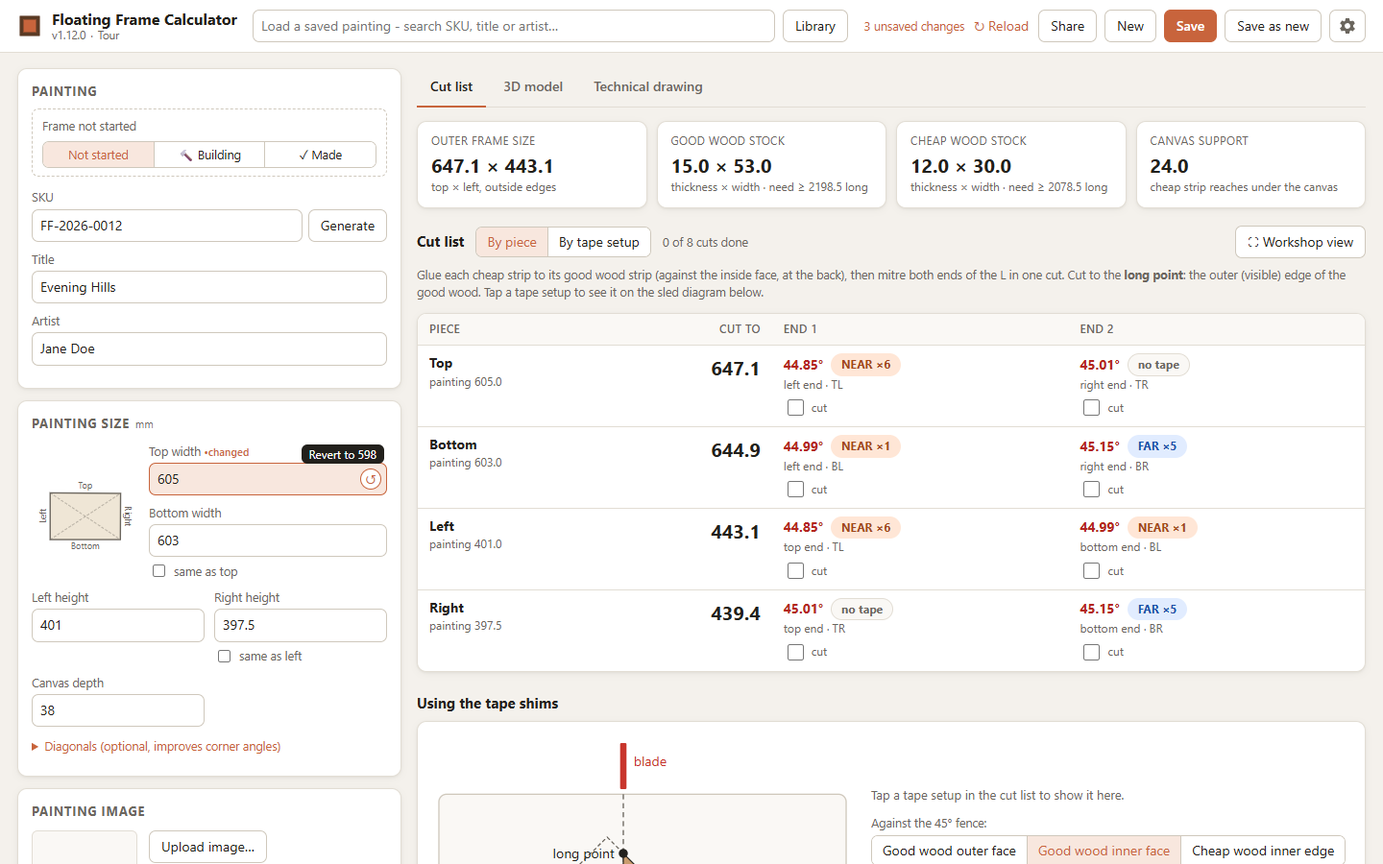
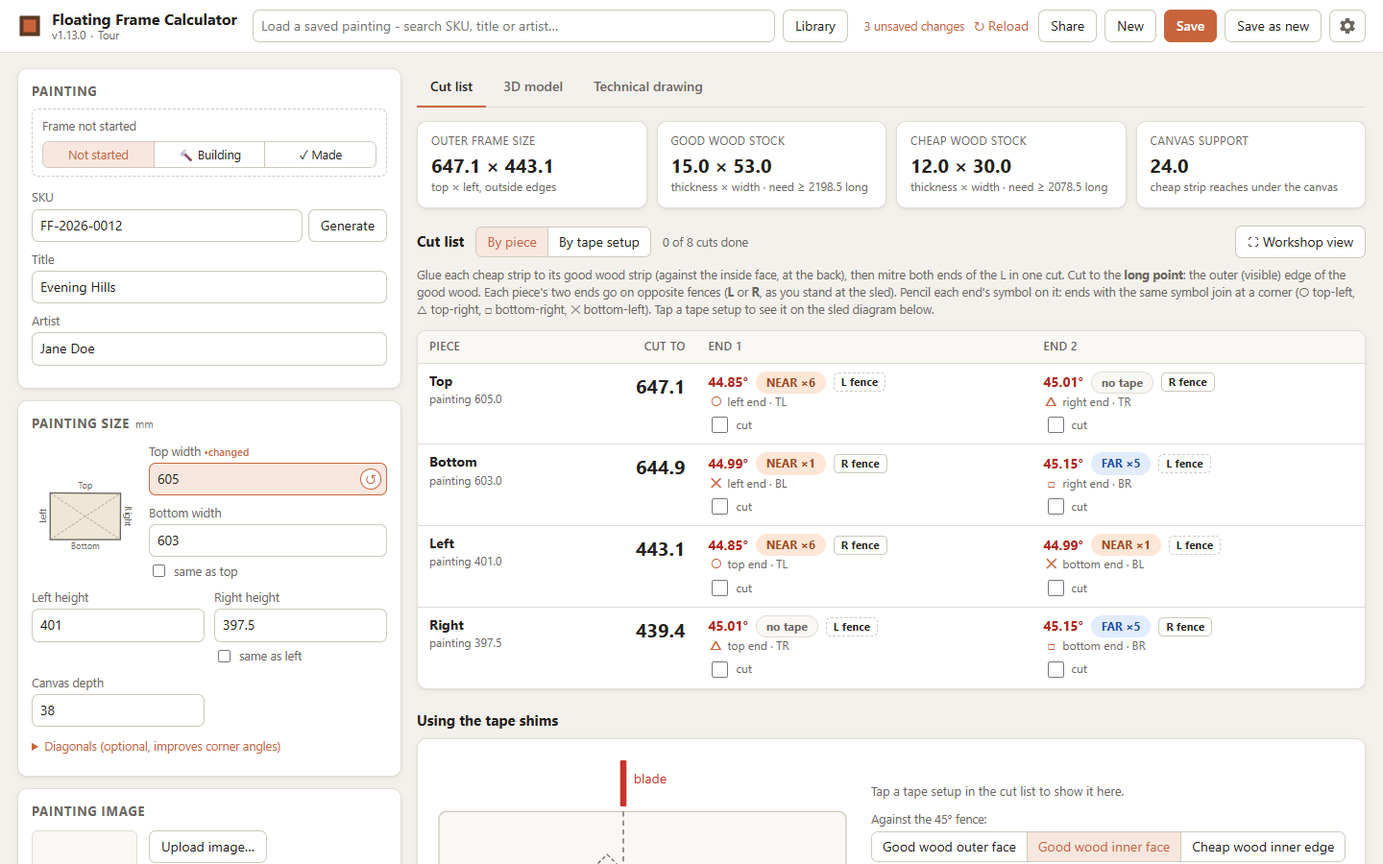
v1.14.0: Cut each end on its own fence of the V jig; corner symbols
- Each piece end gets a fence (left/right of the V-shaped 45 degree jig): a
  piece's two ends and the two mating ends at each corner are on opposite
  fences, so jig angle errors cancel. Turning the L upside down (good wood
  inner face) swaps every end's fence.
- Selection is per end; the sled diagram can be mirrored for the left fence
  and is headed with the piece and end. The caption names the mate's fence.
- By tape setup groups by fence + tape; merged Top & Bottom / Left & Right
  rows also require matching fences; the tick plan signature includes fences.
- Corner symbols (○ △ □ ✕) in the cut list, tape groups, workshop view, sled
  diagram heading and the technical drawing (CORNER_SYMBOL in geometry.js).
- README screenshots retaken.

diff --git a/static/js/app.js b/static/js/app.js
@@ -1,4 +1,4 @@
-import { computeFrame, solveQuad, FENCE_FACES, onInnerSide } from './geometry.js';
+import { computeFrame, solveQuad, FENCE_FACES, onInnerSide, CORNER_SYMBOL } from './geometry.js';
 import { buildDrawing } from './drawing.js';
 import { SPECIES } from './textures.js';
 import { VERSION, CHANGELOG } from './version.js';
@@ -74,7 +74,7 @@ let frame = null;
 let viewer = null;
 let activeTab = 'cut';
 let drawingDirty = true, modelDirty = true;
-let selectedCorner = null; // corner index shown in the tape guide, or null for the general view
+let selectedEnd = null; // the piece end (e.g. 'top:TL') shown on the sled diagram, or null for the general view
 // Opened from a share link: the painting is read only, the frame settings can be tried out but aren't saved.
 const SHARE_TOKEN = new URLSearchParams(location.search).get('share');
 const viewOnly = !!SHARE_TOKEN;
@@ -215,9 +215,9 @@ const tapeKey = (t) => (t.invalid ? 'invalid' : t.layers === 0 ? 'none' : `${t.l
 const tapeText = (t) => (t.invalid ? 'check setup' : t.layers === 0 ? 'no tape' : `${t.location === 'far' ? 'FAR' : 'NEAR'} ×${t.layers}`);
 const tapeClass = (t) => (t.invalid || t.layers === 0 ? 'none' : t.location);
 
-// The tape setup as a chip; tapping it shows that setup on the sled diagram.
-function tapeChip(t, ci, big = false) {
-  return `<button type="button" class="tape-chip ${tapeClass(t)}${big ? ' big' : ''}${ci === selectedCorner ? ' selected' : ''}" data-corner="${ci}" title="Show this setup on the sled diagram">${tapeText(t)}</button>`;
+// The tape setup as a chip; tapping it shows that end's setup on the sled diagram.
+function tapeChip(t, e, big = false) {
+  return `<button type="button" class="tape-chip ${tapeClass(t)}${big ? ' big' : ''}${e.cut === selectedEnd ? ' selected' : ''}" data-end="${e.cut}" title="Show this setup on the sled diagram">${tapeText(t)}</button>`;
 }
 
 function tapeWords(t) {
@@ -226,21 +226,41 @@ function tapeWords(t) {
   return `${t.layers} layer${t.layers === 1 ? '' : 's'} (${f2(t.shim)} mm) at the ${t.location === 'far' ? 'FAR point' : 'NEAR point, by the blade'}`;
 }
 
+// The sled has two 45\u00B0 fences in a V, one each side of the blade. A piece's two ends are
+// mirror images, so they're cut on opposite fences, and the two mating cuts at every corner
+// always end up on opposite fences, which cancels out any error in the jig's angles.
+// These ends go on the right-hand fence (as you stand at the sled) with the L the right way
+// up; turning the L upside down (good wood inner face against the fence) swaps them over.
+const RIGHT_FENCE_UPRIGHT = new Set(['top:TL', 'bottom:BR', 'left:BL', 'right:TR']);
+function fenceFor(cut, s = settingsInput()) {
+  const upsideDown = s.fenceEdge === 'goodInner';
+  return RIGHT_FENCE_UPRIGHT.has(cut) !== upsideDown ? 'right' : 'left';
+}
+const fenceName = (f) => (f === 'right' ? 'R fence' : 'L fence');
+const fenceBadge = (f) => `<span class="fence-badge ${f}" title="Cut on the ${f}-hand fence">${fenceName(f)}</span>`;
+
+// The corner's symbol (see CORNER_SYMBOL), to pencil on both mating ends.
+const symbolBadge = (key) => `<span class="corner-symbol" title="Mark this end with ${CORNER_SYMBOL[key]} - it joins the other ${CORNER_SYMBOL[key]} end at the ${key} corner">${CORNER_SYMBOL[key]}</span>`;
+
 // A piece's two ends in reading order: left then right for Top/Bottom, top then bottom
-// for Left/Right. Each is { strip, ci (corner index), key (e.g. 'TL'), label, cut (tick key) }.
+// for Left/Right. Each is { strip, ci (corner index), key (e.g. 'TL'), label, cut (tick key), fence }.
 function pieceEnds(frame, st) {
   const horizontal = st.key === 'top' || st.key === 'bottom';
   const ends = st.corners.map((ci) => ({ strip: st, ci, key: frame.corners[ci].key }));
   ends.sort((a, b) => (horizontal ? (a.key[1] === 'L' ? -1 : 1) : (a.key[0] === 'T' ? -1 : 1)));
   const labels = horizontal ? ['left end', 'right end'] : ['top end', 'bottom end'];
-  return ends.map((e, i) => ({ ...e, label: labels[i], cut: `${st.key}:${e.key}` }));
+  return ends.map((e, i) => {
+    const cut = `${st.key}:${e.key}`;
+    return { ...e, label: labels[i], cut, fence: fenceFor(cut) };
+  });
 }
+const findEnd = (frame, cut) => frame.strips.flatMap((st) => pieceEnds(frame, st)).find((e) => e.cut === cut) || null;
 
 // Rows in Top, Bottom, Left, Right order. Opposite pieces that come out the same (length,
 // and the angle and tape at each end) share a row, with their matching ends side by side.
 function pieceRows(frame) {
   const byKey = Object.fromEntries(frame.strips.map((st) => [st.key, st]));
-  const sig = (e) => `${f2(frame.corners[e.ci].mitre)}|${tapeKey(frame.corners[e.ci].tape)}`;
+  const sig = (e) => `${f2(frame.corners[e.ci].mitre)}|${tapeKey(frame.corners[e.ci].tape)}|${e.fence}`;
   const rows = [];
   for (const [a, b, name] of [['top', 'bottom', 'Top & Bottom'], ['left', 'right', 'Left & Right']]) {
     const A = byKey[a], B = byKey[b];
@@ -257,7 +277,7 @@ function pieceRows(frame) {
 // ---- ticking cuts off
 // Identifies the cut plan: if lengths or tape setups change, earlier ticks no longer apply.
 function cutPlanSig(frame) {
-  return frame.strips.map((st) => `${st.key}:${f1(st.good.longPoint)}:${st.corners.map((ci) => frame.corners[ci].key + tapeKey(frame.corners[ci].tape)).join(',')}`).join('|');
+  return frame.strips.map((st) => `${st.key}:${f1(st.good.longPoint)}:${pieceEnds(frame, st).map((e) => e.key + tapeKey(frame.corners[e.ci].tape) + e.fence[0]).join(',')}`).join('|');
 }
 const cutsDone = () => (cur.cuts && frame && frame.ok && cur.cuts.sig === cutPlanSig(frame) ? cur.cuts.done || {} : {});
 const staleCuts = () => !!(cur.cuts && frame && frame.ok && cur.cuts.sig !== cutPlanSig(frame) && Object.keys(cur.cuts.done || {}).length);
@@ -327,9 +347,11 @@ function renderCutList() {
   // ---- by piece
   const endCell = (entries) => {
     const c = frame.corners[entries[0].ci];
-    const where = entries.length > 1 ? entries.map((e) => e.key).join(' / ') : `${entries[0].label} · ${entries[0].key}`;
+    const where = entries.length > 1
+      ? entries.map((e) => `${symbolBadge(e.key)} ${e.key}`).join(' / ')
+      : `${symbolBadge(entries[0].key)} ${entries[0].label} \u00B7 ${entries[0].key}`;
     const ticks = viewOnly ? '' : `<div class="ticks">${entries.map((e) => tickBox(e, entries.length > 1 ? e.strip.name : 'cut')).join('')}</div>`;
-    return `<td class="end-cell"><div class="end-main"><span class="angle">${f2(c.mitre)}°</span> ${tapeChip(c.tape, entries[0].ci)}</div><div class="sub">${where}</div>${ticks}</td>`;
+    return `<td class="end-cell"><div class="end-main"><span class="angle">${f2(c.mitre)}\u00B0</span> ${tapeChip(c.tape, entries[0])} ${fenceBadge(entries[0].fence)}</div><div class="sub">${where}</div>${ticks}</td>`;
   };
   const pieceTable = pieceRows(frame).map((r) => {
     const cuts = r.ends.flat().map((e) => e.cut);
@@ -349,19 +371,20 @@ function renderCutList() {
   for (const key of ['top', 'bottom', 'left', 'right']) {
     const st = frame.strips.find((x) => x.key === key);
     for (const e of pieceEnds(frame, st)) {
-      const t = frame.corners[e.ci].tape, k = tapeKey(t);
-      if (!groups.has(k)) groups.set(k, { t, items: [] });
+      // Each fence is taped separately, so a setup is per fence.
+      const t = frame.corners[e.ci].tape, k = `${e.fence}|${tapeKey(t)}`;
+      if (!groups.has(k)) groups.set(k, { t, fence: e.fence, items: [] });
       groups.get(k).items.push(e);
     }
   }
-  const order = (g) => (g.t.invalid ? 9e3 : g.t.layers === 0 ? 0 : (g.t.location === 'far' ? 1000 : 2000) + g.t.layers);
+  const order = (g) => (g.fence === 'left' ? 0 : 10000) + (g.t.invalid ? 9e3 : g.t.layers === 0 ? 0 : (g.t.location === 'far' ? 1000 : 2000) + g.t.layers);
   const tapeGroups = [...groups.values()].sort((a, b) => order(a) - order(b)).map((g) => {
     const left = g.items.filter((e) => !done[e.cut]).length;
     return `<div class="tape-group${left ? '' : ' group-done'}">
-      <div class="tape-group-head">${tapeChip(g.t, g.items[0].ci, true)} <span>${tapeWords(g.t)}</span> <span class="sub">${left ? `${left} of ${g.items.length} cut${g.items.length === 1 ? '' : 's'} left` : 'all done'}</span></div>
+      <div class="tape-group-head">${fenceBadge(g.fence)} ${tapeChip(g.t, g.items[0], true)} <span>${tapeWords(g.t)}</span> <span class="sub">${left ? `${left} of ${g.items.length} cut${g.items.length === 1 ? '' : 's'} left` : 'all done'}</span></div>
       <ul class="tape-cuts">${g.items.map((e) => `<li class="${done[e.cut] ? 'cut-done' : ''}">
         ${viewOnly ? '' : tickBox(e)}
-        <span><b>${e.strip.name}</b> ${e.label} <span class="sub">${e.key}</span></span>
+        <span>${symbolBadge(e.key)} <b>${e.strip.name}</b> ${e.label} <span class="sub">${e.key}</span></span>
         <span class="angle">${f2(frame.corners[e.ci].mitre)}°</span>
         <span class="cut-hint">${lengthHint(frame, e)}</span>
       </li>`).join('')}</ul>
@@ -370,11 +393,11 @@ function renderCutList() {
 
   const dg = frame.diagonals;
   const diagDiff = (d) => Math.abs(d.a - d.b);
-  const cornerRows = frame.corners.map((c, i) => `<tr class="clickable${i === selectedCorner ? ' selected' : ''}" data-corner="${i}" title="Show this corner in the tape diagram">
-      <td><b>${c.key}</b> <span class="sub">${c.name}</span></td>
+  const cornerRows = frame.corners.map((c) => `<tr>
+      <td>${symbolBadge(c.key)} <b>${c.key}</b> <span class="sub">${c.name}</span></td>
       <td class="num">${f2(c.angle)}°</td>
       <td class="num angle">${f2(c.mitre)}°</td>
-      <td>${tapeChip(c.tape, i)}</td>
+      <td><span class="tape-chip ${tapeClass(c.tape)}">${tapeText(c.tape)}</span></td>
       <td class="num">${f2(c.tape.result)}°</td>
       <td class="num">${Math.abs(c.tape.error) < 0.005 ? '0.00' : (c.tape.error > 0 ? '+' : '') + f2(c.tape.error)}°</td>
       <td class="num">${c.jointOpening < 0.05 ? '<span class="sub">&lt; 0.05</span>' : f2(c.jointOpening)} <span class="sub">${c.jointOpening < 0.05 ? '' : c.openingAt === 'inner' ? 'inside' : 'outside'}</span></td>
@@ -406,30 +429,31 @@ function renderCutList() {
       <button type="button" class="workshop-btn" data-workshop>&#9974; Workshop view</button>
     </div>
     ${staleCuts() ? '<div class="alert warn">The measurements or cutting setup changed since you ticked cuts, so those ticks have been cleared.</div>' : ''}
-    <p class="note" style="margin-top:0">Glue each cheap strip to its good wood strip ${frame.inside ? '(against the inside face, at the back)' : '(underneath, outer edges flush)'}, then mitre both ends of the L in one cut. Cut to the <b>long point</b>: the outer (visible) edge of the good wood. Tap a tape setup to see it on the sled diagram below.</p>
+    <p class="note" style="margin-top:0">Glue each cheap strip to its good wood strip ${frame.inside ? '(against the inside face, at the back)' : '(underneath, outer edges flush)'}, then mitre both ends of the L in one cut. Cut to the <b>long point</b>: the outer (visible) edge of the good wood. Each piece's two ends go on opposite fences (<b>L</b> or <b>R</b>, as you stand at the sled). Pencil each end's symbol on it: ends with the same symbol join at a corner (\u25CB top-left, \u25B3 top-right, \u25A1 bottom-right, \u2715 bottom-left). Tap a tape setup to see it on the sled diagram below.</p>
     ${view === 'piece' ? `
     <div class="table-wrap"><table class="table cut-table">
       <thead><tr><th>Piece</th><th class="num">Cut to</th><th>End 1</th><th>End 2</th></tr></thead>
       <tbody>${pieceTable}</tbody>
     </table></div>` : `
-    <p class="note">Set the tape once for each group and make all its cuts. A piece's second cut sets its length.</p>
+    <p class="note">Set the tape on that fence once for each group and make all its cuts. A piece's second cut sets its length.</p>
     <div class="tape-groups">${tapeGroups}</div>`}
 
     <h3>Using the tape shims</h3>
     <div class="guide" id="tapeGuide">
-      ${tapeGuideSvg(s, selectedCorner === null ? null : frame.corners[selectedCorner])}
+      ${selectedGuideSvg(frame, s)}
       <div>
         ${cornerCaption(frame)}
         <div class="guide-label">Against the 45° fence:</div>
         <div class="seg guide-toggle" role="group" aria-label="Face against the fence">
           ${Object.entries(FENCE_FACES).map(([k, f]) => `<button type="button" data-fence-edge="${k}" class="${k === s.fenceEdge ? 'active' : ''}">${f.short}</button>`).join('')}
         </div>
-        <div>The strip goes on the <b>${face.side} side</b> of the fence so the long point ends up on the outside of the frame${
+        <div>Each end goes on the <b>${face.side} side</b> of its fence so the long point ends up on the outside of the frame${
           s.fenceEdge === 'goodInner' ? '. Lay the L <b>upside down</b>: the good wood\'s front edge on the sled, the cheap wood on top reaching over the fence.' : '.'}</div>
         <ul>
           <li><span class="tag far">FAR end</span> tape on the fence ~${f1(s.tapeDistance)} mm from the blade makes the mitre <b>${farEffect}</b> than 45°.</li>
           <li><span class="tag near">NEAR blade</span> tape on the fence right next to the blade makes it <b>${nearEffect}</b> than 45°.</li>
           <li>Stack the layers at one point only - the strip should still touch the bare fence (or its tape) at both points.</li>
+          <li>The two mating ends at each corner are cut on opposite fences, so if the jig's fences aren't exactly 45\u00B0 the errors cancel out and the joint still closes.</li>
         </ul>
       </div>
     </div>
@@ -457,15 +481,24 @@ function renderCutList() {
     </details>`;
 }
 
-// Which setup the tape diagram is showing, and which piece ends it cuts.
+// The sled diagram for the selected end (on its fence), or the general view.
+function selectedGuideSvg(frame, s) {
+  const e = selectedEnd ? findEnd(frame, selectedEnd) : null;
+  return e ? endGuideSvg(frame, s, e) : tapeGuideSvg(s);
+}
+function endGuideSvg(frame, s, e) {
+  const c = frame.corners[e.ci];
+  return tapeGuideSvg(s, c, { mirror: e.fence === 'left', heading: `${CORNER_SYMBOL[e.key]} ${e.strip.name} \u00B7 ${e.label}`, fenceSide: e.fence });
+}
+
+// Which end the tape diagram is showing, and its mate on the other fence.
 function cornerCaption(frame) {
-  if (selectedCorner === null) {
-    return '<p class="guide-pick">Tap a tape setup in the cut list to show it here.</p>';
-  }
-  const c = frame.corners[selectedCorner], t = c.tape;
-  const ends = frame.strips.flatMap((st) => pieceEnds(frame, st)).filter((e) => e.ci === selectedCorner).map((e) => `the ${e.strip.name.toLowerCase()} piece's ${e.label}`);
-  return `<div class="guide-pick active"><b>${c.key} (${c.name})</b>: ${tapeWords(t)}, to cut <span class="angle">${f2(t.result)}°</span>
-    for the ${f2(c.mitre)}° mitre. Used for ${ends.join(' and ')}.
+  const e = selectedEnd ? findEnd(frame, selectedEnd) : null;
+  if (!e) return '<p class="guide-pick">Tap a tape setup in the cut list to show it here.</p>';
+  const c = frame.corners[e.ci], t = c.tape;
+  const mate = frame.strips.flatMap((st) => pieceEnds(frame, st)).find((x) => x.ci === e.ci && x.cut !== e.cut);
+  return `<div class="guide-pick active">${symbolBadge(e.key)} <b>${e.strip.name} piece, ${e.label}</b> on the <b>${e.fence}-hand fence</b>: ${tapeWords(t)}, to cut <span class="angle">${f2(t.result)}\u00B0</span>
+    for the ${f2(c.mitre)}\u00B0 mitre.${mate ? ` Its mate, the ${mate.strip.name.toLowerCase()} piece's ${mate.label}, goes on the ${mate.fence}-hand fence with the same tape.` : ''}
     <button type="button" class="link" data-corner-clear>Show both points</button></div>`;
 }
 
@@ -496,10 +529,10 @@ function renderWorkshop() {
     <div class="ws-ends">${ends.map((e) => {
       const c = frame.corners[e.ci];
       return `<div class="ws-end${done[e.cut] ? ' cut-done' : ''}">
-        <div class="ws-end-head"><b>${e.label[0].toUpperCase() + e.label.slice(1)}</b> <span class="sub">${e.key}</span></div>
-        <div class="ws-end-main"><span class="ws-angle">${f2(c.mitre)}°</span> <span class="tape-chip big ${tapeClass(c.tape)}">${tapeText(c.tape)}</span></div>
+        <div class="ws-end-head"><span class="corner-symbol big">${CORNER_SYMBOL[e.key]}</span> <b>${e.label[0].toUpperCase() + e.label.slice(1)}</b> <span class="sub">${e.key}</span></div>
+        <div class="ws-end-main"><span class="ws-angle">${f2(c.mitre)}\u00B0</span> <span class="tape-chip big ${tapeClass(c.tape)}">${tapeText(c.tape)}</span> <span class="fence-badge big ${e.fence}">${e.fence === 'right' ? 'Right' : 'Left'} fence</span></div>
         <div class="ws-hint">${lengthHint(frame, e, true)}</div>
-        <div class="ws-sled">${tapeGuideSvg(s, c)}</div>
+        <div class="ws-sled">${endGuideSvg(frame, s, e)}</div>
         ${cur.id && !viewOnly ? `<label class="ws-tick"><input type="checkbox" data-cut="${e.cut}"${done[e.cut] ? ' checked' : ''}> Cut</label>` : ''}
       </div>`;
     }).join('')}</div>
@@ -539,15 +572,18 @@ function setupWorkshop() {
 // the kerf down to the right, and the L strip against one side of it. With a
 // corner, only that corner's tape point is lit and its stack of layers is drawn.
 let sledSeq = 0;
-function tapeGuideSvg(s, corner = null) {
+// mirror: draw the left-hand fence (the drawing flipped left to right).
+function tapeGuideSvg(s, corner = null, { mirror = false, heading = null, fenceSide = 'right' } = {}) {
   const uid = ++sledSeq; // unique ids: the diagram can appear more than once
   const c = Math.SQRT1_2;
   const K = 150, AY = 112; // kerf x, and where the fence's blade-side face meets the kerf
   // P(a, o): a along the fence away from the blade, o off the fence's blade-side
   // face (+ towards the blade, - towards the operator).
-  const P = (a, o) => [K + c * a + c * o, AY + c * a - c * o];
+  const MX = (x) => (mirror ? 330 - x : x);
+  const P = (a, o) => [MX(K + c * a + c * o), AY + c * a - c * o];
+  const flip = (anchor) => (!mirror ? anchor : anchor === 'end' ? 'start' : anchor === 'start' ? 'end' : anchor);
   const pts = (arr) => arr.map((q) => q.map((v) => v.toFixed(1)).join(',')).join(' ');
-  const rot = (q) => `rotate(45 ${q[0].toFixed(1)} ${q[1].toFixed(1)})`;
+  const rot = (q) => `rotate(${mirror ? -45 : 45} ${q[0].toFixed(1)} ${q[1].toFixed(1)})`;
   const FT = 12, GOOD = 14, CHEAP = 22, LEN = 190;
   const inside = s.cheapPosition !== 'under';
   const bladeSide = onInnerSide(s.fenceEdge);
@@ -580,7 +616,7 @@ function tapeGuideSvg(s, corner = null) {
   const near = P(-o0 + 14, face), far = P(175, face);
   const lblO = bladeSide ? Math.min(oMin, -FT) - 12 : Math.max(oMax, 0) + 12; // free side of the fence
   const nearL = P(-o0 + (bladeSide ? 44 : 30), lblO), farL = P(bladeSide ? 190 : 112, lblO);
-  const lblAnchor = bladeSide ? 'end' : 'start'; // keep labels clear of the fence
+  const lblAnchor = flip(bladeSide ? 'end' : 'start'); // keep labels clear of the fence
   const fence = [P(0, 0), P(235, 0), P(235, -FT), P(FT, -FT)];
   const fenceL = P(upsideDown ? 150 : 105, -FT / 2);
   // Selected corner: which point gets the tape, and how many layers.
@@ -605,9 +641,10 @@ function tapeGuideSvg(s, corner = null) {
         return `<line class="g-tape-line" x1="${x1.toFixed(1)}" y1="${y1.toFixed(1)}" x2="${x2.toFixed(1)}" y2="${y2.toFixed(1)}"/>`;
       }).join('');
   }
+  const tx = mirror ? 314 : 16, ta = mirror ? 'end' : 'start';
   const title = corner
-    ? `<text class="g-title" x="16" y="66">${corner.key} corner</text>
-       <text class="g-muted" x="16" y="80">mitre ${f2(corner.mitre)}° → cut ${f2(tape.result)}°</text>`
+    ? `<text class="g-title" x="${tx}" y="66" text-anchor="${ta}">${heading || `${corner.key} corner`}</text>
+       <text class="g-muted" x="${tx}" y="80" text-anchor="${ta}">${fenceSide === 'right' ? 'right-hand' : 'left-hand'} fence \u00B7 mitre ${f2(corner.mitre)}\u00B0 \u2192 cut ${f2(tape.result)}\u00B0</text>`
     : '';
   const bandLabel = (b) => {
     const q = P(b.over ? 60 : 75, (b.oa + b.ob) / 2);
@@ -617,7 +654,7 @@ function tapeGuideSvg(s, corner = null) {
     <defs><clipPath id="sledClip${uid}"><rect x="6" y="46" width="318" height="248" rx="6"/></clipPath>
       <marker id="gArrow${uid}" viewBox="0 0 10 10" refX="5" refY="5" markerWidth="7" markerHeight="7" orient="auto-start-reverse"><path d="M0,1 L10,5 L0,9 z" class="g-arrowhead"/></marker></defs>
     <rect class="g-sled" x="6" y="46" width="318" height="248" rx="6"/>
-    <line class="g-kerf" x1="${K}" y1="46" x2="${K}" y2="294"/>
+    <line class="g-kerf" x1="${MX(K)}" y1="46" x2="${MX(K)}" y2="294"/>
     <g clip-path="url(#sledClip${uid})">
       <polygon class="g-offcut" points="${pts(offcut)}"/>
       <polygon class="g-fence" points="${pts(fence)}"/>
@@ -625,18 +662,18 @@ function tapeGuideSvg(s, corner = null) {
     </g>
     ${bands.map(bandLabel).join('')}
     <text class="g-fence-t" x="${fenceL[0]}" y="${fenceL[1]}" text-anchor="middle" dominant-baseline="middle" transform="${rot(fenceL)}">45° fence</text>
-    <rect class="g-blade" x="${K - 2.5}" y="6" width="5" height="36" rx="1"/>
-    <text class="g-blade-t" x="${K + 8}" y="24">blade</text>
+    <rect class="g-blade" x="${MX(K) - 2.5}" y="6" width="5" height="36" rx="1"/>
+    <text class="g-blade-t" x="${MX(K + 8)}" y="24" text-anchor="${flip('start')}">blade</text>
     <circle class="g-tip" cx="${tip[0]}" cy="${tip[1]}" r="3.5"/>
-    <text class="g-ink" x="${K - 7}" y="${tip[1] + 4}" text-anchor="end">long point</text>
+    <text class="g-ink" x="${MX(K - 7)}" y="${tip[1] + 4}" text-anchor="${flip('end')}">long point</text>
     ${stack}
     <circle class="${lit('near') ? 'g-near' : 'g-off'}" cx="${near[0]}" cy="${near[1]}" r="5.5"/>
     ${pointLabel('near', nearL[0], nearL[1] + 4, 'NEAR')}
     <circle class="${lit('far') ? 'g-far' : 'g-off'}" cx="${far[0]}" cy="${far[1]}" r="5.5"/>
     ${pointLabel('far', farL[0], farL[1] + 4, `FAR · ${f1(s.tapeDistance)} mm`)}
     ${title}
-    <line class="g-arrow" x1="28" y1="270" x2="28" y2="215" marker-end="url(#gArrow${uid})"/>
-    <text class="g-muted" x="28" y="284" text-anchor="middle">feed</text>
+    <line class="g-arrow" x1="${MX(28)}" y1="270" x2="${MX(28)}" y2="215" marker-end="url(#gArrow${uid})"/>
+    <text class="g-muted" x="${MX(28)}" y="284" text-anchor="middle">feed</text>
   </svg>`;
 }
 
@@ -1724,10 +1761,10 @@ function bindEvents() {
     if (view) { saveUi({ cutView: view.dataset.cutView }); renderCutList(); return; }
     if (e.target.closest('[data-workshop]')) { openWorkshop(); return; }
     if (e.target.closest('[data-cuts-clear]')) { clearCuts(); return; }
-    const pick = e.target.closest('[data-corner]');
+    const pick = e.target.closest('[data-end]');
     if (pick || e.target.closest('[data-corner-clear]')) {
-      const i = pick ? Number(pick.dataset.corner) : null;
-      selectedCorner = i === selectedCorner ? null : i;
+      const end = pick ? pick.dataset.end : null;
+      selectedEnd = end === selectedEnd ? null : end;
       renderCutList();
       if (pick) $('#tapeGuide').scrollIntoView({ block: 'nearest', behavior: 'smooth' });
       return;

diff --git a/static/js/drawing.js b/static/js/drawing.js
@@ -1,5 +1,5 @@
 // Technical drawing (SVG) of the frame and its 8 strips.
-import { stripLocal, FENCE_FACES } from './geometry.js';
+import { stripLocal, FENCE_FACES, CORNER_SYMBOL } from './geometry.js';
 
 const f1 = (v) => v.toFixed(1);
 const f2 = (v) => v.toFixed(2);
@@ -185,7 +185,8 @@ export function buildDrawing(frame, meta, settings) {
       const dx = p[0] - cx, dy = p[1] - cy;
       const l = Math.hypot(dx, dy);
       const q = [p[0] + (dx / l) * 30, p[1] + (dy / l) * 30];
-      s.text(q[0], q[1], `${c.key} ${f2(c.angle)}°`, { size: 10.5, anchor: dx < 0 ? 'end' : 'start', baseline: 'middle', cls: 'angle' });
+      // The same symbol as in the cut list, to pencil on the two mating ends at this corner.
+      s.text(q[0], q[1], `${CORNER_SYMBOL[c.key]} ${c.key} ${f2(c.angle)}°`, { size: 10.5, anchor: dx < 0 ? 'end' : 'start', baseline: 'middle', cls: 'angle' });
     });
     // Section marker A-A across the left strip
     const mid = [(P.good.outer[0][0] + P.good.outer[3][0]) / 2, (P.good.outer[0][1] + P.good.outer[3][1]) / 2];
@@ -281,9 +282,9 @@ export function buildDrawing(frame, meta, settings) {
 
       const cL = corners[j], cR = corners[i];
       s.text(Math.min(outerL[0], innerL[0]) - 10, outerL[1] - 4, `${f2(cL.mitre)}°`, { size: 11, anchor: 'end', cls: 'angle' });
-      s.text(Math.min(outerL[0], innerL[0]) - 10, outerL[1] + 9, `${cL.key} end`, { size: 9, anchor: 'end', cls: 'muted' });
+      s.text(Math.min(outerL[0], innerL[0]) - 10, outerL[1] + 9, `${CORNER_SYMBOL[cL.key]} ${cL.key} end`, { size: 9, anchor: 'end', cls: 'muted' });
       s.text(rightmost + 56, outerR[1] - 4, `${f2(cR.mitre)}°`, { size: 11, cls: 'angle' });
-      s.text(rightmost + 56, outerR[1] + 9, `${cR.key} end`, { size: 9, cls: 'muted' });
+      s.text(rightmost + 56, outerR[1] + 9, `${CORNER_SYMBOL[cR.key]} ${cR.key} end`, { size: 9, cls: 'muted' });
 
       // Label column
       s.text(M, top - 2, `${st.name.toUpperCase()}`, { size: 13, weight: 'bold' });

diff --git a/static/css/style.css b/static/css/style.css
@@ -447,6 +447,11 @@ body.has-dock .toast { bottom: 76px; }
 .tape-cuts li .len { font-size: 15px; }
 .tape-cuts li.cut-done > span { color: var(--muted); text-decoration: line-through; }
 details.accuracy { margin-top: 18px; }
+.fence-badge { display: inline-block; font-size: 11px; font-weight: 700; letter-spacing: .02em; padding: 1px 7px; border-radius: 5px; border: 1px solid var(--line-strong); color: var(--text); background: var(--panel); white-space: nowrap; }
+.fence-badge.left { border-style: dashed; }
+.fence-badge.big { font-size: 18px; padding: 4px 12px; border-radius: 8px; border-width: 2px; }
+.corner-symbol { display: inline-block; min-width: 1.2em; text-align: center; font-weight: 700; color: var(--accent); font-size: 1.15em; line-height: 1; }
+.corner-symbol.big { font-size: 26px; vertical-align: -3px; }
 /* Phones: each piece as a small card - name and length, then its two ends side by side. */
 @media (max-width: 640px) {
   .cut-table thead { display: none; }

diff --git a/static/js/version.js b/static/js/version.js
@@ -7,6 +7,16 @@
 
 export const CHANGELOG = [
   {
+    version: '1.14.0',
+    date: '2026-09-30',
+    changes: [
+      'Each end now says which fence of the 45° jig it’s cut on: L fence or R fence, as you stand at the sled. A piece’s two ends always go on opposite fences, and so do the two mating cuts at each corner, so any error in the jig’s angles cancels out.',
+      'The sled diagram and the Workshop view draw each end on its own fence (the left-hand one mirrored).',
+      '“By tape setup” now groups cuts by fence as well, since you tape each fence separately.',
+      'Each corner has a symbol to pencil on both of its mating ends: ○ top-left, △ top-right, □ bottom-right, ✕ bottom-left. They’re shown in the cut list, the Workshop view and the technical drawing.',
+    ],
+  },
+  {
     version: '1.13.0',
     date: '2026-09-30',
     changes: [

diff --git a/static/js/geometry.js b/static/js/geometry.js
@@ -19,6 +19,9 @@ export const CORNERS = [
   { key: 'TL', name: 'Top-left' },
 ];
 
+// A simple shape per corner, easy to pencil on both mating ends so they're paired up at glue-up.
+export const CORNER_SYMBOL = { TL: '○', TR: '△', BR: '□', BL: '✕' };
+
 export const SIDES = [
   { key: 'bottom', name: 'Bottom' },
   { key: 'right', name: 'Right' },

diff --git a/README.md b/README.md
@@ -128,7 +128,7 @@ The address, path and DuckDNS token are remembered, so later updates only need `
 - **Inputs** (mm): top and bottom widths, left and right heights ("same as" ticked by default), canvas depth, and optionally the two diagonals. Also the SKU, title and artist. Artist names are remembered for the dropdown.
 - **Frame settings**, saved with each painting: good wood thickness, cheap wood thickness and width, whether the cheap strip sits against the inside face of the good wood or underneath it, the gap to the painting, and the lip (negative recesses the frame). Use *Save as defaults* to make them the starting values for new paintings.
 - **Cutting setup** (under Settings, the gear button at the top right): the distance of the far tape point from the blade, the thickness of one layer of masking tape, which face of the L rides the 45° fence, and the saw kerf.
-- **Cut list**: one row per piece with the length to cut it to (the good wood's long point) and, for each end, the mitre angle and tape setup (e.g. `FAR ×3`). Tap a setup to see it on the sled diagram. Tick ends off as you cut them; the ticks are saved and cleared if the measurements change. *By tape setup* groups the cuts so each tape setup is made once, and tells you which cut sets each piece's length. *Workshop view* shows one piece at a time in big text with the sled diagram for each end. The corner angles, the result you'll actually cut and the expected joint gaps are under *Accuracy details*.
+- **Cut list**: one row per piece with the length to cut it to (the good wood's long point) and, for each end, the mitre angle and tape setup (e.g. `FAR ×3`). Each end also shows which fence of the V-shaped 45° jig it's cut on (L or R): a piece's two ends go on opposite fences, and so do the two mating cuts at every corner, so any error in the jig's angles cancels out. Each corner has a symbol (○ △ □ ✕) to pencil on both of its mating ends, shown in the cut list, the workshop view and the drawing. Tap a setup to see it on the sled diagram, drawn on the right fence. Tick ends off as you cut them; the ticks are saved and cleared if the measurements change. *By tape setup* groups the cuts so each tape setup is made once, and tells you which cut sets each piece's length. *Workshop view* shows one piece at a time in big text with the sled diagram for each end. The corner angles, the result you'll actually cut and the expected joint gaps are under *Accuracy details*.
 - **3D model**: rotate and zoom it, show or hide the painting and the measurements, paint the top of the cheap wood black, see an exploded view, and upload the painting's image (a default image is used otherwise). When you upload a photo, the app finds the canvas in it and straightens it to the painting's measured shape, removing the perspective. Check or drag the four corners, and tick *Improve lighting* to even out uneven light and colour casts. The original photo is kept, so you can re-crop it any time with *Crop / straighten*. *Save PNG* saves a picture of the view.
 - **Status**: mark each frame as not started, building or made. Building and made frames get a badge with the date, the load list shows each frame's status with an icon, and the Library can filter by status.
 - **Time**: while a frame is marked Building, start the timer as you work. A dock at the bottom of the screen shows it, with Start/Stop and the frames sharing the time. When several frames are being built at once, the time is split equally between them, and it's re-split whenever one starts or finishes. A soft chime plays every 10 minutes while the timer runs (change the interval, or turn it off with 0, under Settings). On a phone, you can also turn on a notification (Settings → Build timer) that shows while the timer runs, with a Stop timer button that works even when the app is closed. Each frame shows its total and a time log, and you can add or take off time by hand. The Library shows each frame's total.
